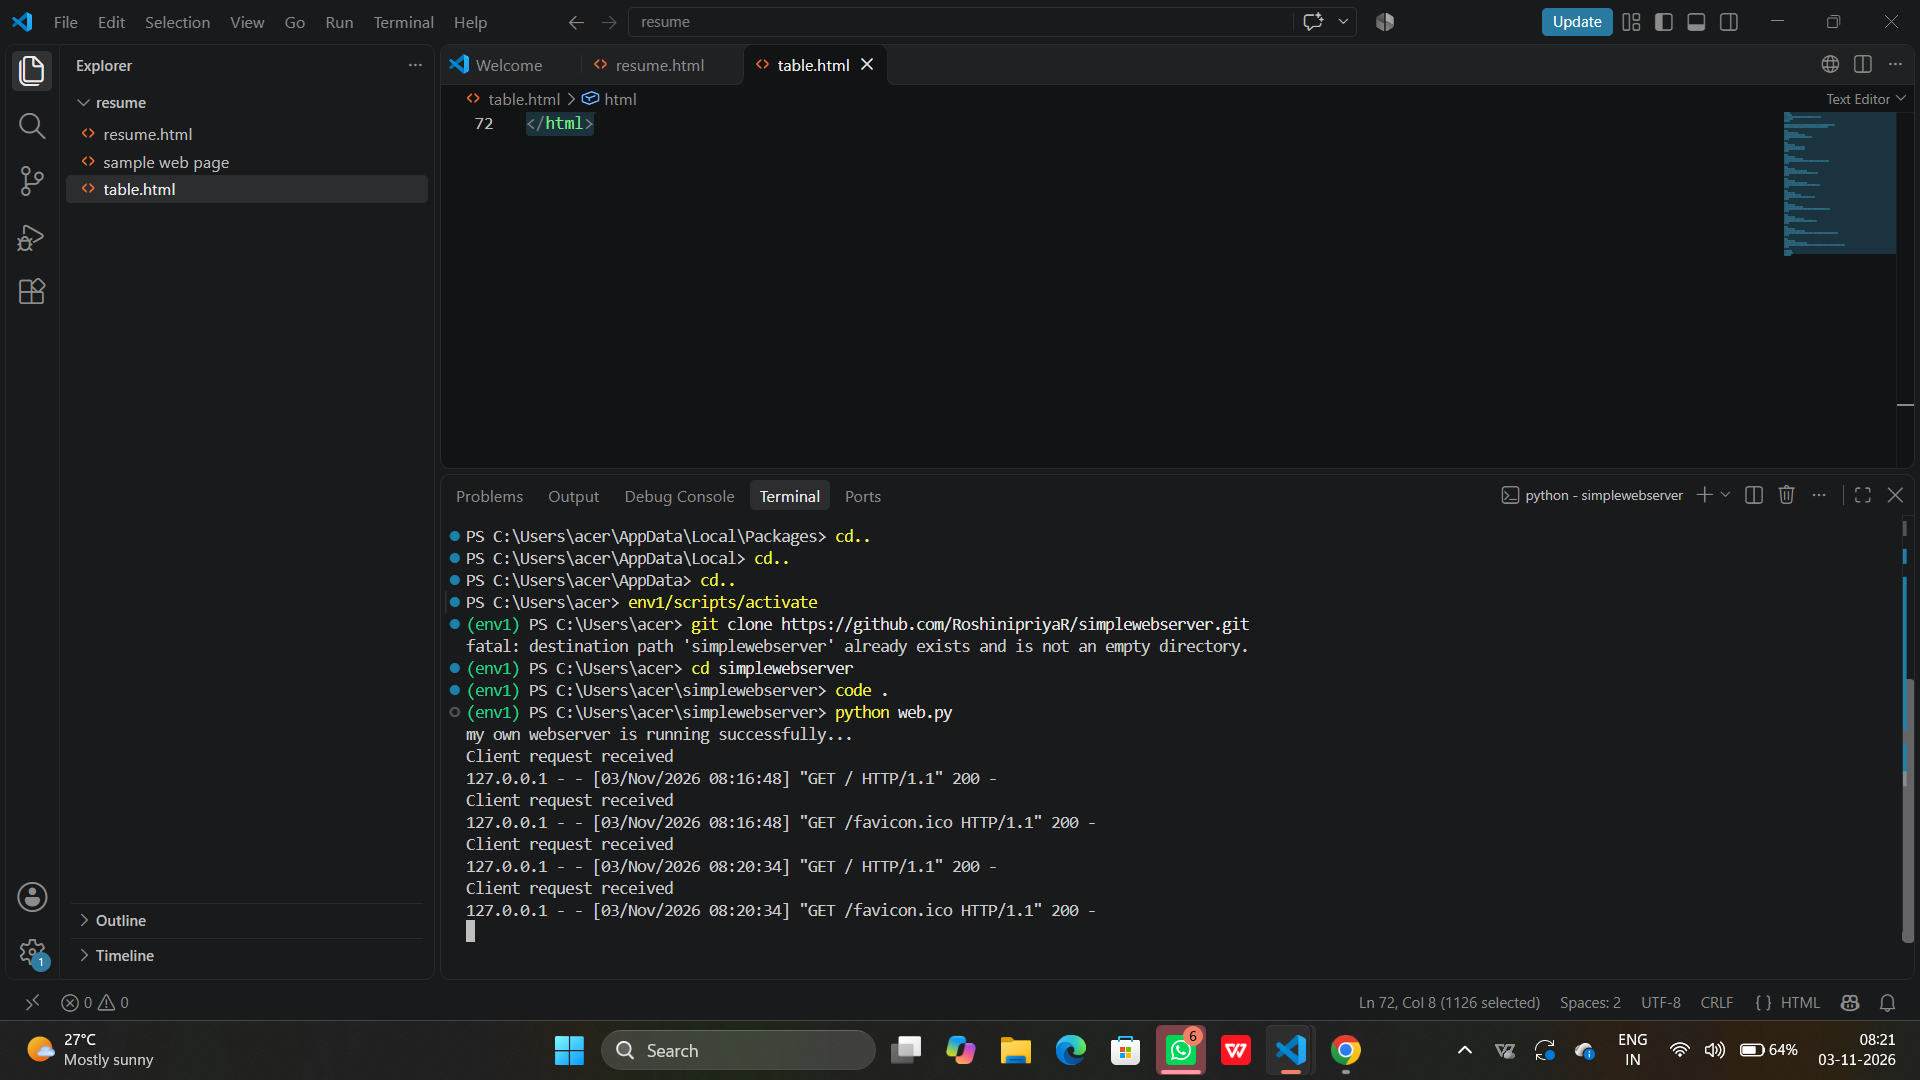
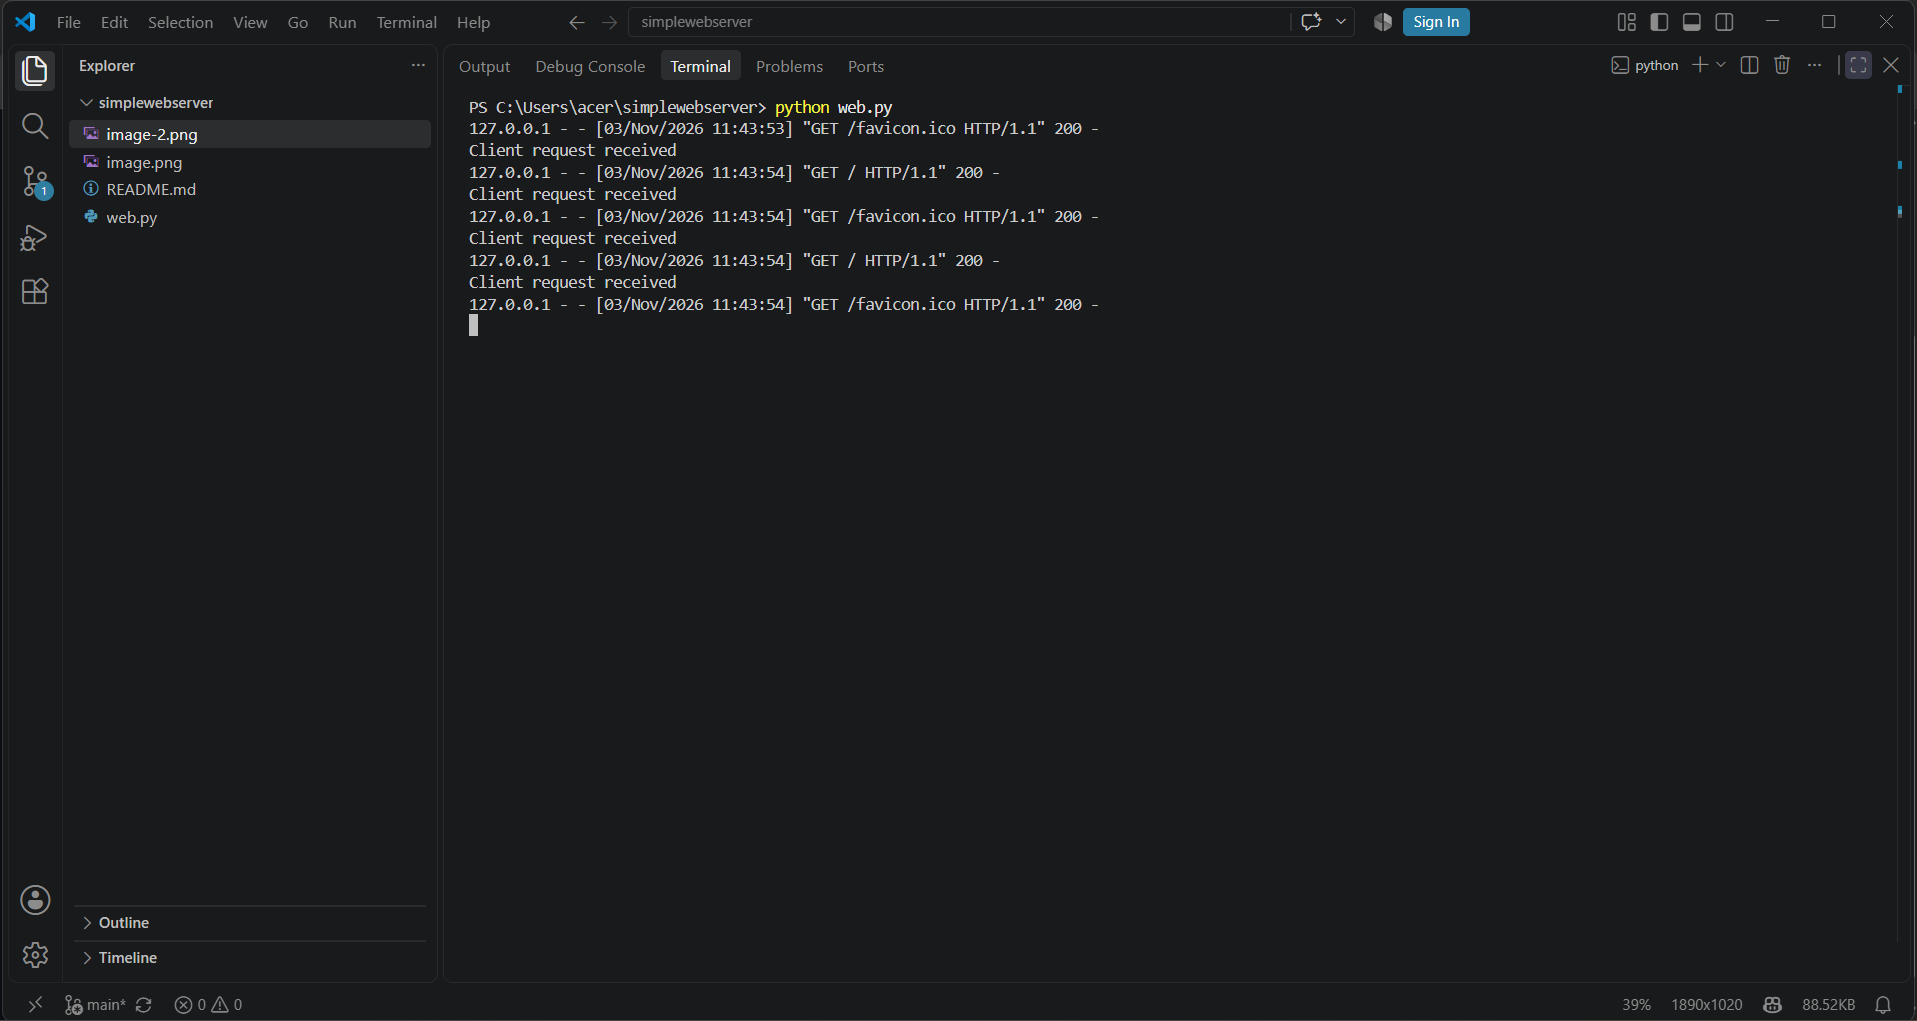
Success

diff --git a/README.md b/README.md
@@ -136,7 +136,7 @@ webpage
 ![alt text](image.png)
 
 serverpage
-![alt text](image-2.png)
+![alt text](image-1.png)
 
 
 
